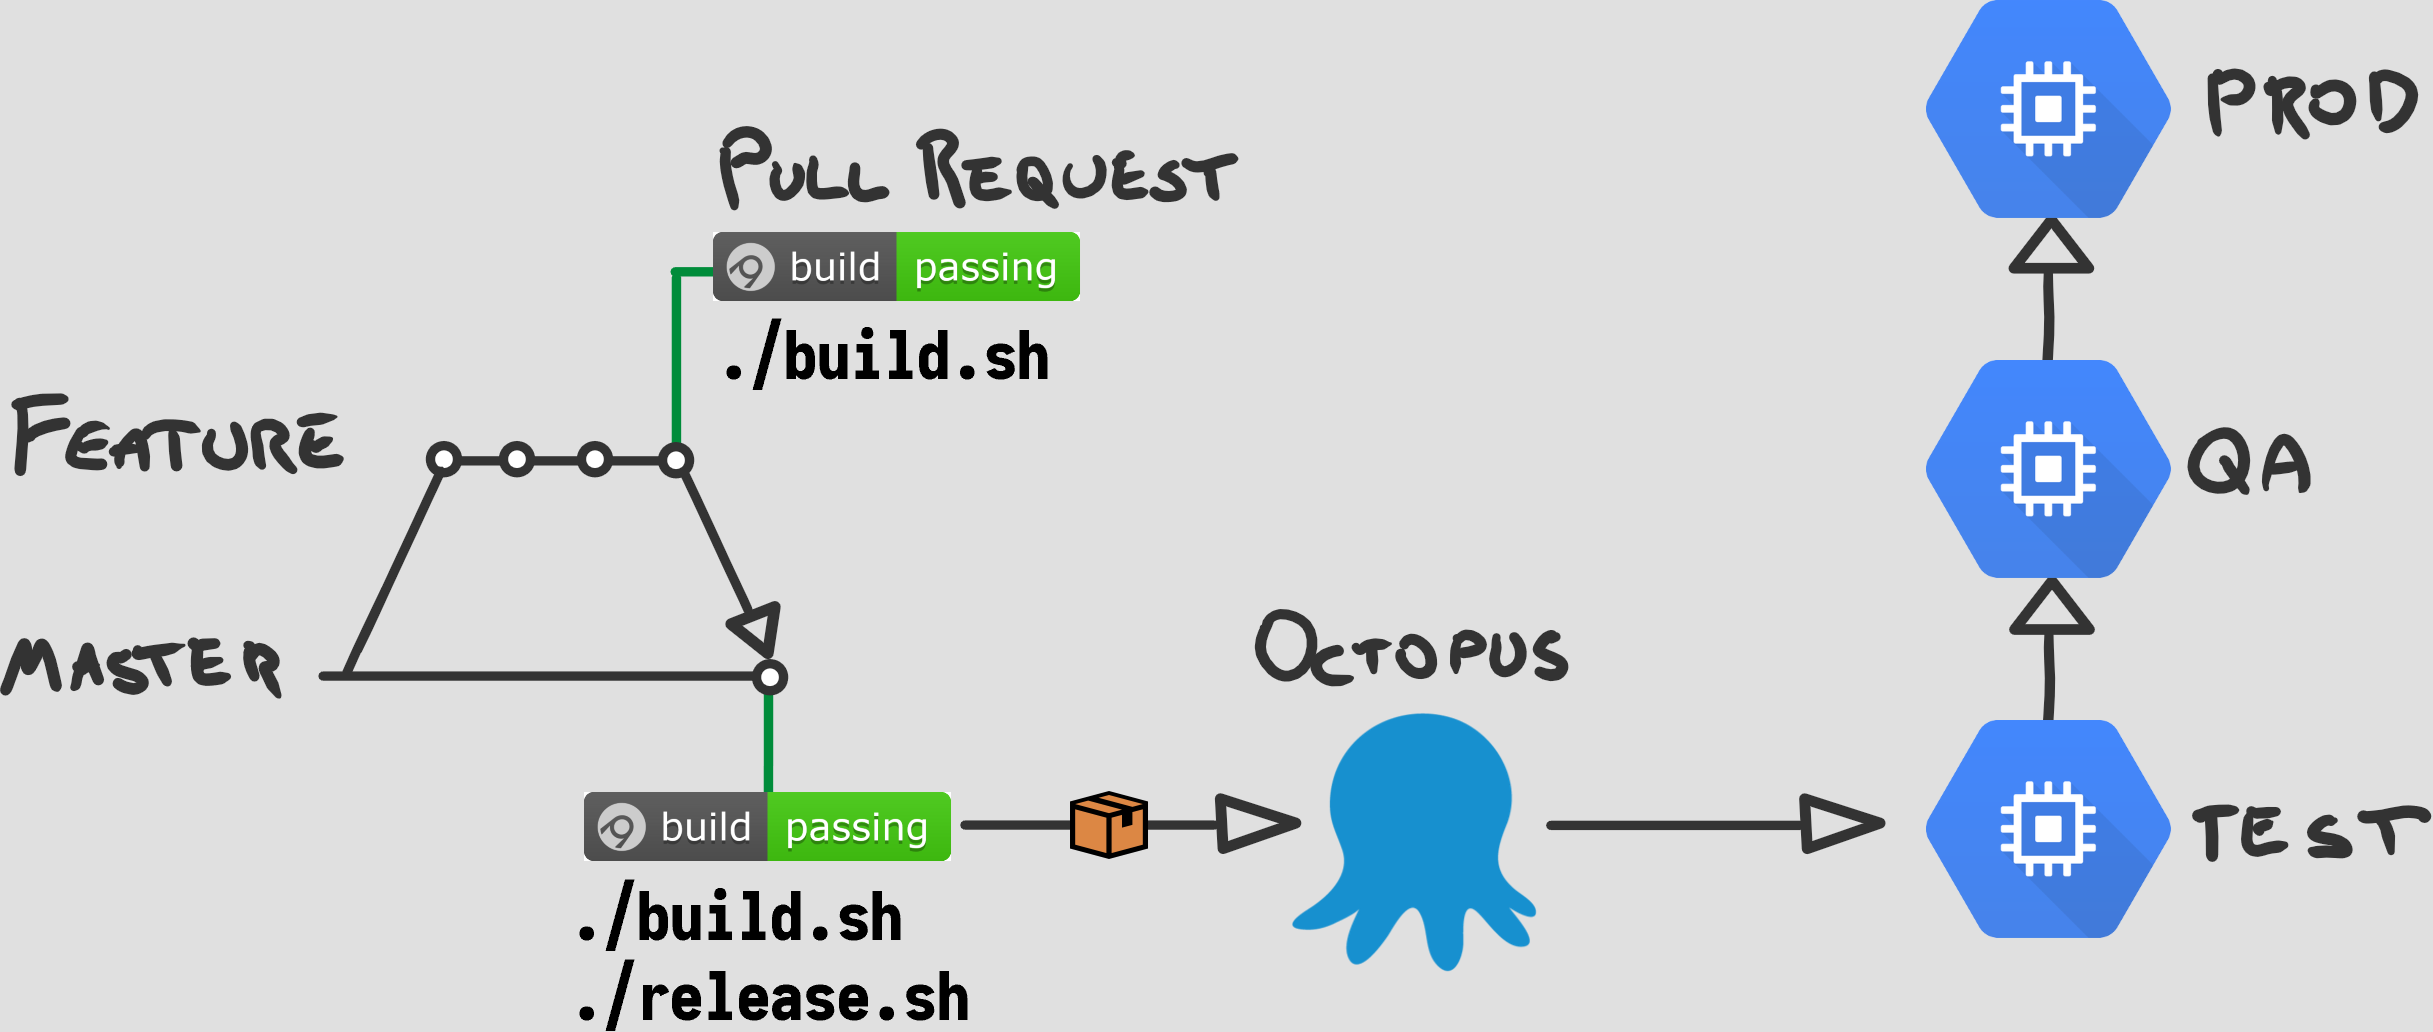
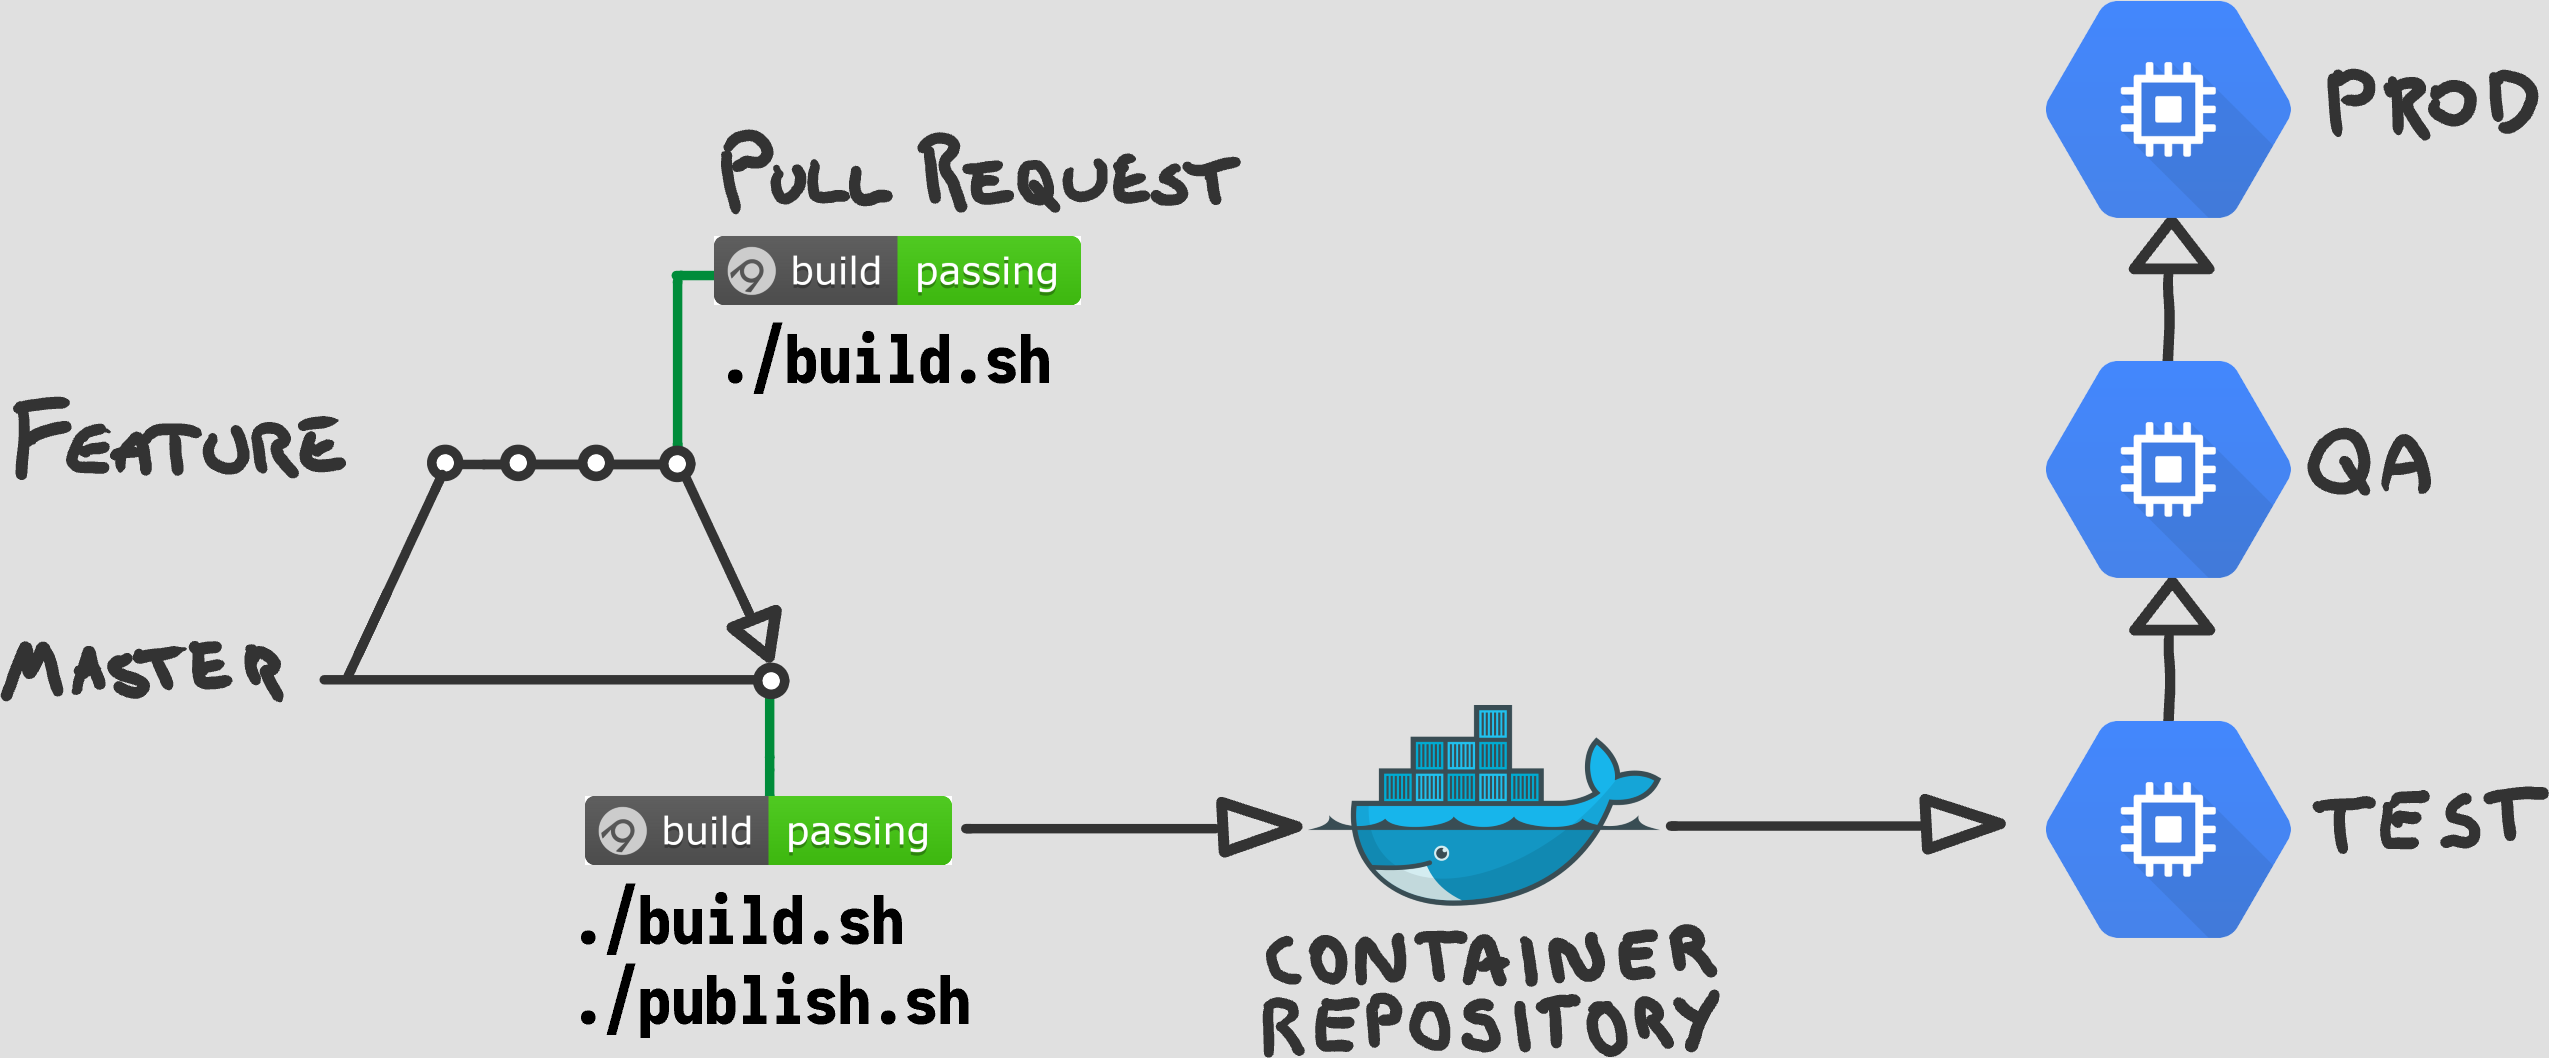
12factor: make deployment more docker based

Changed region(s): [[0.0, 0.0, 1.0, 1.0]]

diff --git a/twelve-factor/slides.md b/twelve-factor/slides.md
@@ -221,17 +221,14 @@ find ./src -iname "*.Tests.csproj" -type f -exec \
   dotnet test --configuration $MODE --no-build --no-restore "{}" \;
 
 dotnet publish \
-  --configuration $MODE --no-build --no-restore
-  --output ../../.build/publish
+  --configuration $MODE --no-build --no-restore \
+  --runtime linux-x64 \
+  --output publish
 
-octo pack \
-  --basePath .build/publish
-  --outFolder .build/artifacts
-  --id $NAME
-  --version $(readVersion.sh $NAME)
+find ./src -iname "Dockerfile"
+  -exec ./dockerBuild.sh {} \;
 ```
 Note:
-* we deploy with octopus, so generate a nuget for apps
 * you could create a docker container
 * bake an ami with packer etc.
 <!-- .slide: data-transition="fade" -->
@@ -246,17 +243,14 @@ Note:
 
 
 
-```bash
-APIKEY="$1"
-find .build/artifacts -iname "*.nupkg" -exec octo push \
-  --package "{}" \
-  --server https://octopus.internal.net \
-  --apiKey $APIKEY \
-  \;
-```
 
 ```bash
-CONTAINER=$(docker images | grep myapp | grep latest | awk '{print $3}')
+find ./src -iname "Dockerfile"
+  -exec ./dockerPublish.sh $TAG {} \;
+```
+```bash
+TAG=$1
+CONTAINER=$(docker images | grep $TAG | awk '{print $3}' | head -n 1)
 
 docker tag $CONTAINER docker.internal.net/myapp
 docker push docker.internal.net/myapp
@@ -266,7 +260,7 @@ docker push docker.internal.net/myapp
 
 
 
-![build release deploy pipeline](img/build-release-deploy-3-octopus.png) <!-- .element: class="no-border" -->
+![build release deploy pipeline](img/build-release-deploy-3-docker.png) <!-- .element: class="no-border" -->
 <!-- .slide: data-transition="none-in none-out" -->
 
 
